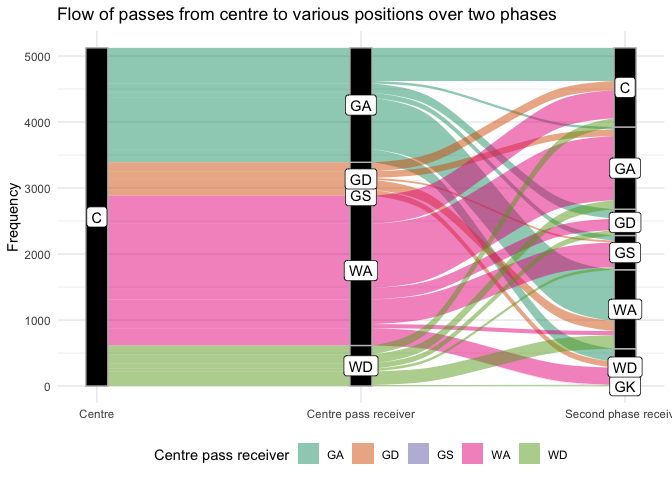
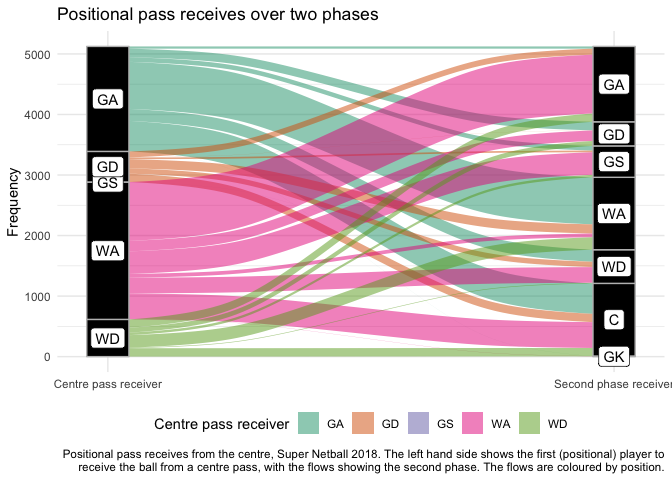
some changes to the walkthrough
and then the readme

diff --git a/contributions/vol2/SteveLane/walkthrough.md b/contributions/vol2/SteveLane/walkthrough.md
@@ -109,15 +109,15 @@ OK, let’s do a simple Sankey plot—i.e. how the passes flow
 pl_receive <- ask_receive_counts %>%
   ggplot(
     aes(
-      y = n, axis1 = Centre, axis2 = `Centre pass receiver`,
-      axis3 = `Second phase receiver`
+      y = n, axis1 = `Centre pass receiver`,
+      axis2 = `Second phase receiver`
     )
   ) +
   geom_alluvium(aes(fill = `Centre pass receiver`), width = 1/12) +
   geom_stratum(width = 1/12, fill = "black", color = "grey") +
   geom_label(stat = "stratum", aes(label = after_stat(stratum))) +
   scale_x_discrete(
-    limits = c("Centre", "Centre pass receiver", "Second phase receiver"),
+    limits = c("Centre pass receiver", "Second phase receiver"),
     expand = c(.05, .05)
   ) +
   scale_fill_brewer(type = "qual", palette = "Dark2")
@@ -144,7 +144,11 @@ pl_receive_nicer <- pl_receive +
   theme(legend.position = 'bottom') +
   labs(
     y = 'Frequency',
-    title = 'Flow of passes from centre to various positions over two phases'
+    title = 'Positional pass receives over two phases',
+    caption = str_wrap(
+      'Positional pass receives from the centre, Super Netball 2018. The left hand side shows the first (positional) player to receive the ball from a centre pass, with the flows showing the second phase. The flows are coloured by position.',
+      width = 120
+    )
   )
 pl_receive_nicer
 #> Warning in to_lodes_form(data = data, axes = axis_ind, discern =

diff --git a/contributions/vol2/SteveLane/README.md b/contributions/vol2/SteveLane/README.md
@@ -1,0 +1,27 @@
+
+<!-- README.md is generated from README.Rmd. Please edit that file -->
+
+# Ask and you shall receive
+
+<!-- badges: start -->
+<!-- badges: end -->
+
+<img src="asking.png" width="2880" />
+
+# Summary
+
+In the second volume of \#NetballNumbers I’m interested in who receives
+the ball through the two phases, *positionally*. So for this challenge,
+I ignored the team, looking purely at who received the ball from the
+centre pass in the 2018 Super Netball season.
+
+I think the figure works for what I wanted: you can see that the WA and
+GA receive most of the ball from the centre. This is no surprise, most
+teams will want to attack. Also, if the GA receives the centre pass,
+they look to the WA or C on the second phase—again, this seems pretty
+reasonable, that first centre pass to the WA will be setting up a play,
+with the WA passing the ball off in anticipation to run a decoy for the
+GS, or receive the ball themselves to shoot for goal.
+
+If you want to see how I’ve done this, see [the
+walkthrough](walkthrough.md).
